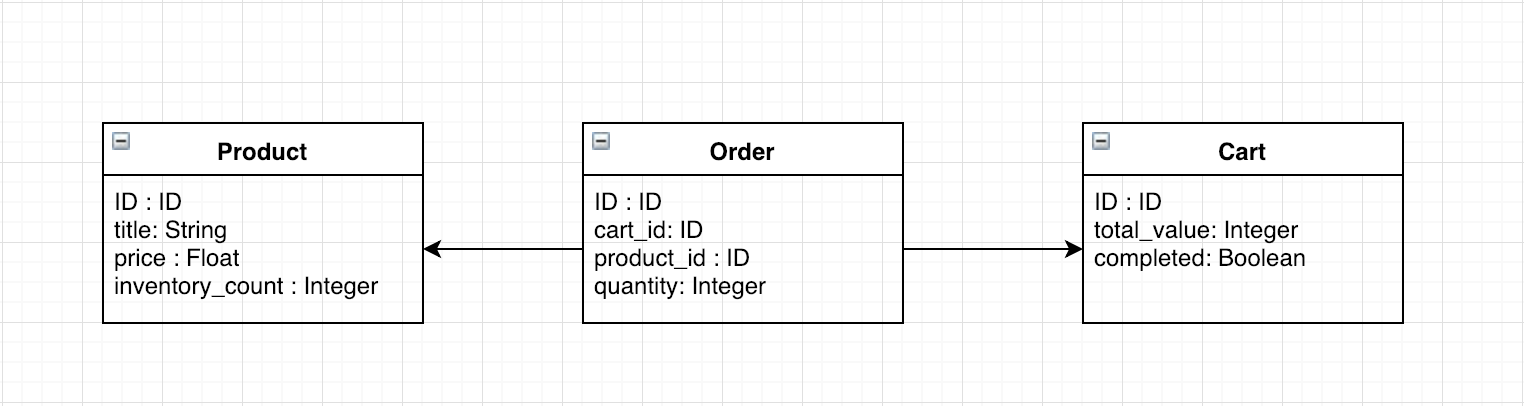
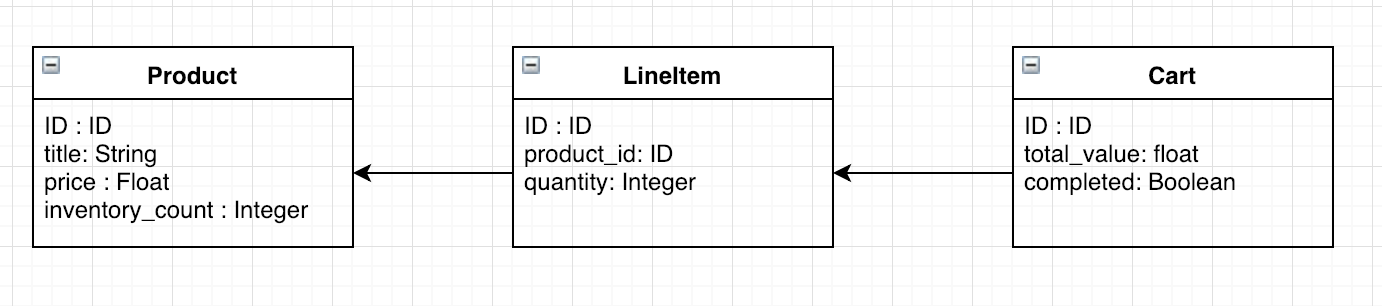
Add more inventory endpoint

diff --git a/app/graphql/resolvers/purchase_cart.rb b/app/graphql/resolvers/purchase_cart.rb
@@ -6,10 +6,10 @@ class Resolvers::PurchaseCart < GraphQL::Function
   
   def call(_obj, args, _ctx)
     cart = Cart.find(args[:cartId])
-     
+  
     valid = true
     for product in cart.products
-      item = LineItem.find(cart: cart, product: product)
+      item = LineItem.find_by(cart: cart, product: product)
       if product.inventory_count < item.quantity
         valid = false
       end
@@ -17,10 +17,11 @@ class Resolvers::PurchaseCart < GraphQL::Function
 
     if valid 
       for product in cart.products
-        item = LineItem.find(cart: cart, product: product)
+        item = LineItem.find_by(cart: cart, product: product)
         product.inventory_count - item.quantity
+        product.update(inventory_count: product.inventory_count - item.quantity)
       end 
-      cart.completed = true
+      cart.update(completed: true)
     else 
       cart 
     end 

diff --git a/app/graphql/resolvers/add_product_to_cart.rb b/app/graphql/resolvers/add_product_to_cart.rb
@@ -1,7 +1,7 @@
 class Resolvers::AddProductToCart < GraphQL::Function
  
   argument :cartId, types.ID
-  argument :productId, types.ID
+  argument :product_id, types.ID
   argument :quantity, types.Int
 
 
@@ -9,7 +9,7 @@ class Resolvers::AddProductToCart < GraphQL::Function
   
   def call(_obj, args, _ctx)
     cart = Cart.find(args[:cartId])
-    product = Product.find(args[:productId])
+    product = Product.find(args[:product_id])
     quantity = args[:quantity]
     LineItem.create(cart: cart, product: product, quantity: quantity)
     cart

diff --git a/db/seeds.rb b/db/seeds.rb
@@ -1,5 +1,8 @@
 Product.create(title: "Hit or Miss", price: 0.99, inventory_count: 3)
 Product.create(title: "All stars by Smash Mouth", price: 0.99, inventory_count: 8)
-Product.create(title: "Knuckles", price: 100.99, inventory_count: 0)
+Product.create(title: "Knuckles", price: 100.99, inventory_count: 4)
+Product.create(title: "Chungus", price: 100.99, inventory_count: 0)
 
+Cart.create(total_value:0, completed: false)
+Cart.create(total_value:0, completed: false)
 Cart.create(total_value:0, completed: false)

diff --git a/app/graphql/resolvers/purchase_product.rb b/app/graphql/resolvers/purchase_product.rb
@@ -1,11 +1,11 @@
 class Resolvers::PurchaseProduct < GraphQL::Function
  
-  argument :productId, !types.ID
+  argument :product_id, !types.ID
 
   type Types::ProductType
   
   def call(_obj, args, _ctx)
-    product = Product.find(args[:productId])
+    product = Product.find(args[:product_id])
     if product.inventory_count > 0 
       product.update(inventory_count: product.inventory_count - 1)
     end 

diff --git a/app/graphql/resolvers/increase_inventory.rb b/app/graphql/resolvers/increase_inventory.rb
@@ -1,0 +1,13 @@
+class Resolvers::IncreaseInventory < GraphQL::Function
+ 
+  argument :product_id, types.ID
+  argument :new_inventory, types.Int
+
+  type Types::ProductType
+  
+  def call(_obj, args, _ctx)
+    product = Product.find(args[:product_id])
+    product.update(inventory_count: product.inventory_count + args[:new_inventory])
+    product
+  end
+end

diff --git a/app/graphql/types/mutation_type.rb b/app/graphql/types/mutation_type.rb
@@ -6,5 +6,5 @@ Types::MutationType = GraphQL::ObjectType.define do
   field :createCart, function: Resolvers::CreateCart.new
   field :createProduct, function: Resolvers::CreateProduct.new
   field :purchaseCart, function: Resolvers::PurchaseCart.new
-  
+  field :increaseInventory, function: Resolvers::IncreaseInventory.new
 end

diff --git a/app/graphql/types/cart_type.rb b/app/graphql/types/cart_type.rb
@@ -4,6 +4,6 @@ Types::CartType = GraphQL::ObjectType.define do
 
   field :id , !types.ID
   field :products, types[Types::ProductType]
-  field :value, !types.Float
+  field :total_value, !types.Float
   field :completed, !types.Boolean
 end 

diff --git a/db/migrate/20190109011702_create_carts.rb b/db/migrate/20190109011702_create_carts.rb
@@ -3,7 +3,6 @@ class CreateCarts < ActiveRecord::Migration[5.2]
     create_table :carts do |t|
       t.float :total_value
       t.boolean :completed
-
       t.timestamps
     end
   end

diff --git a/README.md b/README.md
@@ -20,8 +20,7 @@ The cart should contain a list of all included products, a total dollar amount (
 Bonus points for making your API (at least partly) secure, writing documentation that doesn’t suck, including unit tests, and/or building your API using GraphQL.
 
 ## Context
-This is a simple shop where you can purchase varied goods using API call. In this shop you can buy any Memes you want at a low cost 
-of 0.99$.
+This is a simple shop where you can purchase varied goods using API call. In this shop you can buy any Memes intellectual property you want at a low starting cost of 0.99$.
 
 The products we are see are selling in this shop are memes and they have a title, price ,and a number of inventory so we can track how much we have in stock
 
@@ -36,24 +35,29 @@ The cart is where the orders lie an when purchased all the order are filled and 
   - Price (Float)
   - Inventory Count (Int)
 
-**Order**
+**LineItem**
   - Amount (Int)
   - Product
   - Cart
 
 **Cart**
   - Value (Int)
-  - Products
+  - LineItems 
+
+![Schema](images/schema.png)
 
 
 ## Get Started 
-Before cloning the repo make sure you have `ruby` and `rails` installed on your machine
+Before cloning the repo make sure you have [ruby](https://www.ruby-lang.org/en/) and [rails](https://weblog.rubyonrails.org/2018/12/4/Rails-5-2-2-has-been-released/) installed on your machine
+
 - run `rails s` or `rails server`
 - Go to `localhost:3000` and you should see 
+![Rails](images/rails.png)
+- Congrats!  this means that the project was properly installed now go to `http://localhost:3000/graphiql` in order to see the GraphQL interface
+![GraphQL](images/graphql.png)
+- Now you should be able to use all the given endpoints in order to make transactions the my MEME shop
 
-## Endpoints
+[back to top](#shopify-challenge-2019)
 
-
-[back to top](#problem-requirements)
 
 
